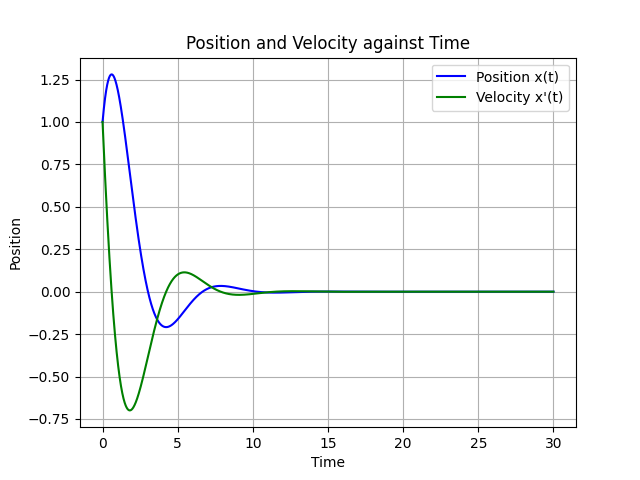
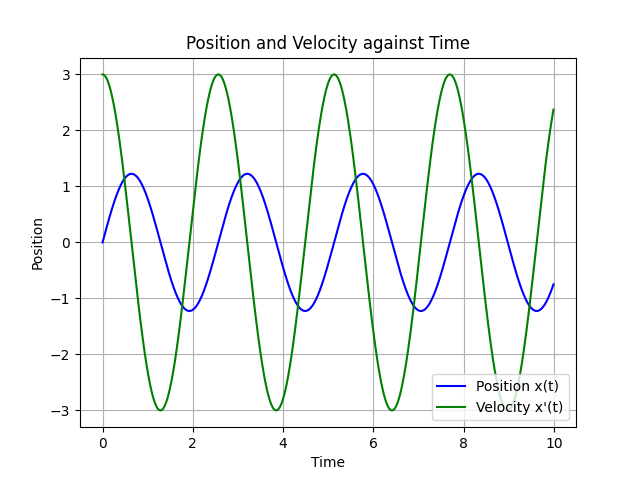
Commit

diff --git a/Moving Mirror.py b/Moving Mirror.py
@@ -1,9 +1,11 @@
 import numpy as np
 from scipy.integrate import odeint
 import matplotlib.pyplot as plt
+from vpython import *
+scene = canvas(width=1500, height=400, background = color.white)
 
 # Define the function representing the ODE, assuming F(t) and noise term are 0
-def harmonic_oscillatorscipy(x, t, r, omega):
+def moving_mirror(x, t, r, omega):
     dxdt = [x[1], -2 * r * x[1] - omega ** 2 * x[0]]
     return dxdt
 
@@ -13,24 +15,37 @@ k = float(input("Spring constant:"))
 gamma = float(input("gamma:"))
 r = gamma / (2 * m)
 omega = (k / m) ** 0.5
-x_0 = float(input("Initial position"))
+x_0 = float(input("Initial position:"))
 v_0 = float(input("Initial velocity:"))
 
 # Initial conditions
 Initial = [x_0, v_0]  # Initial position and velocity
 
 # Time points to solve the ODE for
-t = np.linspace(0, 30, 10000)
+t = np.linspace(0, 100, 10000)
 
 # Solve the ODE
-sol = odeint(harmonic_oscillatorscipy, Initial, t, args = (r, omega))
+sol = odeint(moving_mirror, Initial, t, args = (r, omega))
+
+# Function to update the position of the mirror
+def update_mirror(mirror, sol):
+    mirror.pos = vector(sol[:, 0][-1], 0, 0)
+
+# Create the mirror object
+mirror = box(pos = vector(Initial[0], 0, 0), size = vector(0.01, 0.5, 0.3), color = color.blue)
 
 # Plot the solution and sapipve it to an image file
-plt.plot(t, sol[:, 0], 'b', label='Position x(t)')
-plt.plot(t, sol[:, 1], 'g', label="Velocity x'(t)")
+plt.plot(t[:1000], sol[:1000, 0], 'b', label = 'Position x(t)')
+plt.plot(t[:1000], sol[:1000, 1], 'g', label = "Velocity x'(t)")
 plt.xlabel('Time')
 plt.ylabel('Position')
 plt.legend(loc = 'best')
 plt.title('Position and Velocity against Time')
 plt.grid()
 plt.savefig('moving_mirror.png')  # Save the plot to an image file
+
+# Animate the motion of the mirror
+for i in range(len(t)):
+    #scene.autoscale = False
+    rate(100)  # Limit the frame rate to 100 frames per second
+    update_mirror(mirror, sol[:i + 1])
